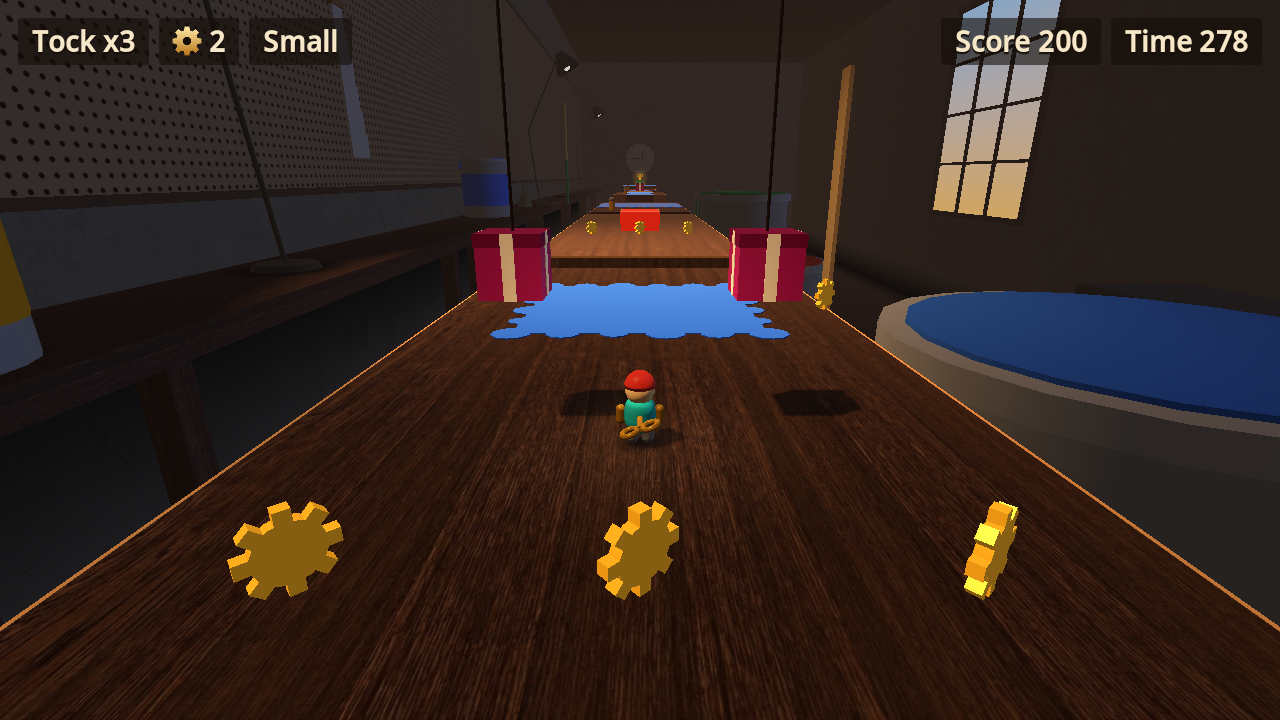
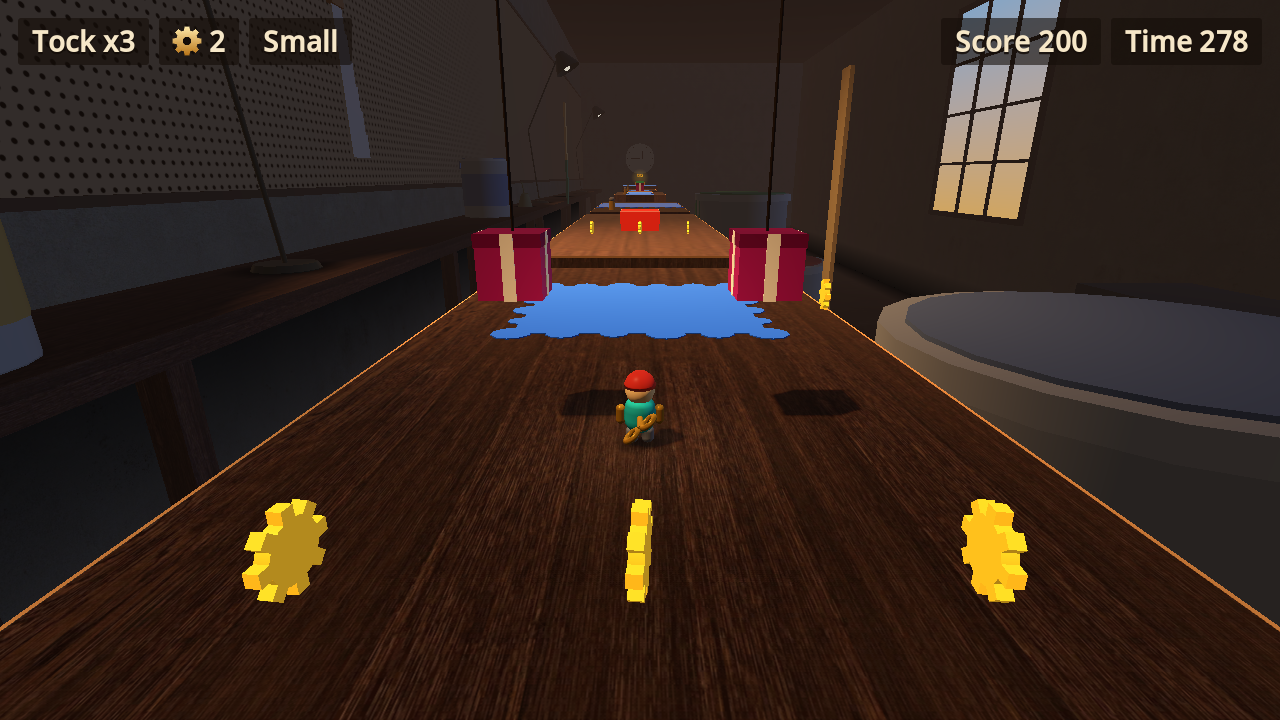
fix: apply specialist review findings to the campaign
Bugs: gamepad B on an end screen could lose the run; death in a phase
break restored the wrong health; death while exposed left the head down
and aimable; touching the key while dying froze the clock; dentures
landing on Tock hurt him. Each has a regression test seen failing first.

Levels: moved unfair enemies, slowed the level 4 wrench relay, moved a
hidden box that blocked a required jump, added two checkpoints.

Art: brighter cogs, clearer Baron and duck, steel trays, muted scenery.

Design: design/expansion-spec.md

diff --git a/README.md b/README.md
@@ -67,7 +67,8 @@ This game was built with [Claude Code](https://claude.com/claude-code), on top o
 7. **Rebuilt the menus and added gamepad support.** The studio's UI programmer added a cast-brass title over the live 3D scene, restyled the other screens and HUD, and made menus and play work with a controller. Those controller tests use simulated events, so a real controller is still unproven. There are now 58 automated tests.
 8. **Fixed a playtest bug.** Holding an arrow key made the 3-button menu spin so fast that it often stopped on the opposite button. Menus now stop at their ends, and one press moves one step.
 9. **Expanded it to a full campaign.** The studio's game designer wrote the [expansion spec](design/expansion-spec.md) with exact jump margins for every gap. Its gameplay programmer built most of the Bolt Blaster and the four new enemies, and Claude Code then built slick paint, moving wrenches, three new levels and the Baron Rust fight directly from the spec. Screenshots caught problems the tests could not, such as the Baron standing out of frame, so the fight got its own camera.
-10. **Tested the campaign.** There are now 163 automated tests. Bots finish levels 2, 3 and 4, walking except for the run jumps, and making Tock slower or weaker on purpose makes them fail. Other bots beat the Baron with stomps alone, with bolts alone, and with no protection at all by dodging. In the final measurement on the Intel HD 520, every level stayed above 60 FPS uncapped, at 70 FPS or more, and a stress test of the busiest allowed scene held 82 FPS. An earlier run of that stress test on a hot, busy laptop dipped to about 55 FPS, so the worst moments may still drop slightly below 60 there.
+10. **Tested the campaign.** Bots finish levels 2, 3 and 4, walking except for the run jumps, and making Tock slower or weaker on purpose makes them fail. Other bots beat the Baron with stomps alone, with bolts alone, and with no protection at all by dodging. In the final measurement on the Intel HD 520, after several back-to-back runs, every spot checked stayed above 60 FPS uncapped, with the lowest at 64, and a stress test of the busiest allowed scene held 66 FPS. An earlier run of that stress test on a hot, busy laptop dipped to about 55 FPS, so the worst moments may still drop slightly below 60 there.
+11. **Played it, then had the studio's specialists review it.** The level designer, art director and QA lead each reviewed the finished game. Their findings led to fixes for real bugs, such as a gamepad tap of B on an end screen throwing away the whole run, and a death during a phase break refilling too much of the Baron's health. They also led to fairer enemy placement, gentler timing on level 4's wrench relay, two extra checkpoints, and clearer colors, including a much bigger moustache. There are now 169 automated tests.
 
 ## Project layout
 

diff --git a/assets/data/data_reference.md b/assets/data/data_reference.md
@@ -28,7 +28,7 @@ Distances are meters, speeds are meters per second and times are seconds.
 | `boss` | `slam_p1` to `slam_p3`, `slam_recover` | Warning before a bench slam per phase (safe 0.8 to 1.5), and the pause after it |
 | `boss` | `ring_speed`, `ring_radius`, `ring_height`, `ring_half_width` | The shockwave's speed and furthest reach, how high it hits and half its thickness |
 | `boss` | `lob_windup`, `lob_gap`, `lob_flight`, `lob_radius`, `lob_linger`, `lob_lead_p3` | The wrench throw: warning, seconds between throws, flight time, hit radius on landing, how long it lies there harmless, and how far ahead of Tock phase 3 aims, in seconds of his speed |
-| `boss` | `denture_tell`, `denture_flight`, `denture_recover` | The teeth attack: warning, flight to the landing marks, pause after |
+| `boss` | `denture_tell`, `denture_flight`, `denture_recover`, `denture_land_grace` | The teeth attack: warning, flight to the landing marks, pause after, and how long freshly landed teeth cannot hurt, so landing on Tock is harmless |
 | `boss` | `sweep_tell`, `sweep_speed`, `sweep_top`, `sweep_width` | The bar's warning, crossing speed, top height and width |
 | `boss` | `phase_break`, `retry_grace`, `defeat_seconds` | Length of the break between phases, of the pause after Tock respawns, and from the last hit to the Golden Key rising |
 | `boss` | `weak_spot_base_y`, `weak_spot_width`, `weak_spot_height` | The drooped head's hit box. A stomp needs feet above `weak_spot_base_y + enemy.stomp_margin` |
